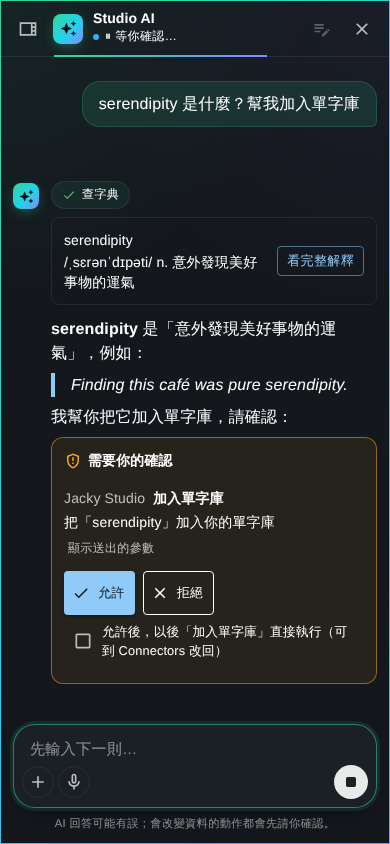
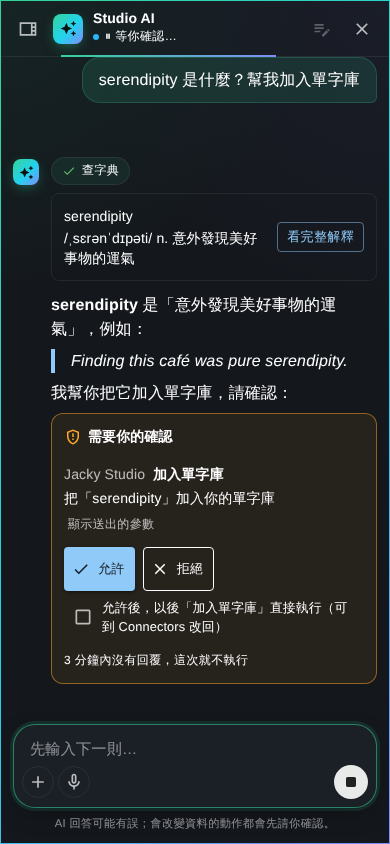
feat(aiChat): 確認卡顯示還剩多少時間回覆（D-106）
伺服器等確認最多 3 分鐘，時間到就不執行，但卡片上從沒說過。
等待中的卡片多一行剩餘時間，最後一分鐘倒數秒數；常數由測試對齊
ClientToolRunner.ApprovalTimeout。重拍 studio-approval 截圖。

Claude-Session: https://claude.ai/code/session_016MR5UN6vsbc54EuztP6RYv

diff --git a/jackyaiapp.client/src/components/aiChat/components/ApprovalCard.tsx b/jackyaiapp.client/src/components/aiChat/components/ApprovalCard.tsx
@@ -11,12 +11,13 @@ import {
   Typography,
 } from '@mui/material';
 import { alpha, useTheme } from '@mui/material/styles';
-import { useState } from 'react';
+import { useEffect, useState } from 'react';
 
 import {
   ApprovalCall,
   ApprovalDecision,
   ApprovalState,
+  approvalTimeLeft,
   canAlwaysAllow,
   decisionsFor,
   formatArgument,
@@ -32,6 +33,18 @@ interface ApprovalCardProps {
   onSubmit: (decisions: ApprovalDecision[]) => void;
   /** The calls the reader allowed and asked to let run on their own from now on (`canAlwaysAllow`). */
   onAlwaysAllow?: (calls: ApprovalCall[]) => void;
+}
+
+/** The time now, again every second while `ticking`: the card counts down the time left to answer. */
+function useNow(ticking: boolean) {
+  const [now, setNow] = useState(() => Date.now());
+  useEffect(() => {
+    if (!ticking) return;
+    setNow(Date.now());
+    const id = window.setInterval(() => setNow(Date.now()), 1000);
+    return () => window.clearInterval(id);
+  }, [ticking]);
+  return now;
 }
 
 /** One tool of one connector: what a permission is set for. */
@@ -94,6 +107,8 @@ export default function ApprovalCard({
   const open = state === 'pending' || state === 'failed';
   const decided = new Map(decisions?.map((d) => [d.toolUseId, d.approve]));
   const allChosen = approval.calls.every((c) => c.toolUseId in chosen);
+  const now = useNow(open && approval.askedAt !== undefined);
+  const timeLeft = open ? approvalTimeLeft(approval.askedAt, now) : null;
 
   return (
     <Box
@@ -292,6 +307,16 @@ export default function ApprovalCard({
           {canAllowAll
             ? '也可以逐項選好允許或拒絕，再按「照上面的選擇送出」'
             : '每一項都選好允許或拒絕後才能送出'}
+        </Typography>
+      )}
+      {timeLeft && (
+        <Typography
+          variant="caption"
+          color={timeLeft.urgent ? 'warning.main' : 'text.secondary'}
+          sx={{ display: 'block', mt: 0.5 }}
+          data-testid="approval-time-left"
+        >
+          {timeLeft.text}
         </Typography>
       )}
       {state === 'sending' && (

diff --git a/jackyaiapp.client/src/components/aiChat/utils/approval.test.ts b/jackyaiapp.client/src/components/aiChat/utils/approval.test.ts
@@ -1,7 +1,11 @@
 import { describe, expect, it } from 'vitest';
 
+import clientToolRunnerCs from '../../../../../JackyAIApp.Server/Services/Chatbot/ClientToolRunner.cs?raw';
+
 import {
   alwaysAllowRequest,
+  APPROVAL_TIMEOUT_MS,
+  approvalTimeLeft,
   canAlwaysAllow,
   decisionsFor,
   formatArgument,
@@ -90,5 +94,42 @@ describe('hasOpenApproval', () => {
   it('is closed with no card or only answered ones', () => {
     expect(hasOpenApproval([])).toBe(false);
     expect(hasOpenApproval([{}, approval('resolved')])).toBe(false);
+  });
+});
+
+describe('approvalTimeLeft', () => {
+  const asked = 1_000_000;
+
+  it("counts to the server's own limit", () => {
+    const minutes = /ApprovalTimeout = TimeSpan\.FromMinutes\((\d+)\)/.exec(clientToolRunnerCs);
+    expect(minutes).not.toBeNull();
+    expect(Number(minutes![1]) * 60 * 1000).toBe(APPROVAL_TIMEOUT_MS);
+  });
+
+  it('says nothing without knowing when it was asked', () => {
+    expect(approvalTimeLeft(undefined, asked)).toBeNull();
+  });
+
+  it('counts whole minutes, then seconds in the last minute, then that the time is up', () => {
+    expect(approvalTimeLeft(asked, asked)).toEqual({
+      text: '3 分鐘內沒有回覆，這次就不執行',
+      urgent: false,
+    });
+    expect(approvalTimeLeft(asked, asked + 61_000)).toEqual({
+      text: '2 分鐘內沒有回覆，這次就不執行',
+      urgent: false,
+    });
+    expect(approvalTimeLeft(asked, asked + APPROVAL_TIMEOUT_MS - 60_000)).toEqual({
+      text: '60 秒內沒有回覆，這次就不執行',
+      urgent: true,
+    });
+    expect(approvalTimeLeft(asked, asked + APPROVAL_TIMEOUT_MS - 4_500)).toEqual({
+      text: '5 秒內沒有回覆，這次就不執行',
+      urgent: true,
+    });
+    expect(approvalTimeLeft(asked, asked + APPROVAL_TIMEOUT_MS + 2_000)).toEqual({
+      text: '時間到了，這次不會執行',
+      urgent: true,
+    });
   });
 });

diff --git a/jackyaiapp.client/src/components/aiChat/utils/approval.ts b/jackyaiapp.client/src/components/aiChat/utils/approval.ts
@@ -16,6 +16,9 @@ export interface PendingApproval {
   calls: ApprovalCall[];
   /** The conversation has read outside (untrusted) content: every write needs a yes. */
   tainted?: boolean;
+  /** When the question arrived (ms since the epoch, the client's clock): the turn waits at most
+   *  `APPROVAL_TIMEOUT_MS` from about then. */
+  askedAt?: number;
 }
 
 export interface ApprovalDecision {
@@ -73,3 +76,22 @@ export const alwaysAllowRequest = (call: ApprovalCall): ToolPermissionRequest =>
  */
 export const hasOpenApproval = (messages: readonly { approval?: MessageApproval }[]): boolean =>
   messages.some((m) => m.approval !== undefined && m.approval.state !== 'resolved');
+
+/** How long the server waits for an answer before counting every call as a no (`ClientToolRunner.ApprovalTimeout`). */
+export const APPROVAL_TIMEOUT_MS = 3 * 60 * 1000;
+
+/**
+ * What the card says about the time left to answer, or nothing when it does not know when it was asked. The server
+ * started counting a moment before the question arrived, so this is never later than its own limit. Under a minute
+ * it counts the seconds (`urgent`); at the end, the server's no is on its way.
+ */
+export const approvalTimeLeft = (
+  askedAt: number | undefined,
+  now: number,
+): { text: string; urgent: boolean } | null => {
+  if (askedAt === undefined) return null;
+  const left = Math.ceil((askedAt + APPROVAL_TIMEOUT_MS - now) / 1000);
+  if (left <= 0) return { text: '時間到了，這次不會執行', urgent: true };
+  if (left <= 60) return { text: `${left} 秒內沒有回覆，這次就不執行`, urgent: true };
+  return { text: `${Math.ceil(left / 60)} 分鐘內沒有回覆，這次就不執行`, urgent: false };
+};

diff --git a/jackyaiapp.client/src/components/aiChat/components/ApprovalCard.test.tsx b/jackyaiapp.client/src/components/aiChat/components/ApprovalCard.test.tsx
@@ -274,4 +274,33 @@ describe('ApprovalCard', () => {
       expect(checkbox()).toBeNull();
     });
   });
+
+  describe('time left to answer', () => {
+    afterEach(() => vi.useRealTimers());
+    const timeLeft = () =>
+      container.querySelector('[data-testid="approval-time-left"]')?.textContent ?? null;
+
+    it('counts down while the card waits, from when the question arrived', () => {
+      vi.useFakeTimers();
+      const askedAt = Date.now();
+      render({ pendingId: 'p', calls: [call('a')], askedAt });
+      expect(timeLeft()).toBe('3 分鐘內沒有回覆，這次就不執行');
+
+      act(() => vi.advanceTimersByTime(2 * 60 * 1000 + 30_000));
+      expect(timeLeft()).toBe('30 秒內沒有回覆，這次就不執行');
+    });
+
+    it('is gone once sent or answered, and not shown without a time', () => {
+      vi.useFakeTimers();
+      const askedAt = Date.now();
+      render({ pendingId: 'p', calls: [call('a')], askedAt }, vi.fn(), 'sending');
+      expect(timeLeft()).toBeNull();
+      render({ pendingId: 'p', calls: [call('a')], askedAt }, vi.fn(), 'resolved', [
+        { toolUseId: 'a', approve: true },
+      ]);
+      expect(timeLeft()).toBeNull();
+      render({ pendingId: 'p', calls: [call('a')] });
+      expect(timeLeft()).toBeNull();
+    });
+  });
 });

diff --git a/jackyaiapp.client/src/components/aiChat/hooks/useChatConversation.ts b/jackyaiapp.client/src/components/aiChat/hooks/useChatConversation.ts
@@ -243,7 +243,12 @@ export function useChatConversation(options?: ChatConversationOptions) {
         event.type === 'approval_required'
           ? updateBot({
               approval: {
-                request: { pendingId: event.pendingId, calls: event.calls, tainted: event.tainted },
+                request: {
+                  pendingId: event.pendingId,
+                  calls: event.calls,
+                  tainted: event.tainted,
+                  askedAt: Date.now(),
+                },
                 state: 'pending',
               },
             })

diff --git a/docs/ai-native/DECISIONS.md b/docs/ai-native/DECISIONS.md
@@ -107,3 +107,4 @@
 - **D-103（2026-10-25 22:15）Studio AI 主動提議記住，靠確認卡把關**：2026 的助理會自己發現「這值得記」。Studio 先回答，再在同一個回覆最後呼叫 `remember`（`AlwaysAsks`：任何設定下都是確認卡，本站 MCP server 不提供），使用者按允許才存；一個對話最多提議一次、拒絕就不再提；一次性的事、別人的事、密碼證件、健康狀況不提議。不做自動記憶（不經確認就存）：持久化 injection 的風險（D-101）沒變。只改 prompt 與 `remember` 的說明，`StudioChatProfileTests` 鎖住。
 - **D-104（2026-10-25 22:20）本輪審查（subagent，唯讀）**：無高風險。已修：/connectors 記憶標題在桌機也變小（`fontSize: { sm: undefined }` 不會還原 → `typography: { xs: 'subtitle1', sm: 'h6' }`，加省略號）；資料分析的筆記用法與「不要因為筆記呼叫工具」互相拉扯（改成「使用者要查但沒說範圍時，查詢條件可以照筆記」）；主動提議只根據使用者自己打的話；讀不到筆記時資料分析助理照常回答（記 log）；Studio 筆記區塊加逐字測試。接受：拒絕過的提議在別的對話可能再出現一次（design/08 §8）。
 - **D-105（2026-10-25 23:50）確認卡重新整理就消失：不做重新接上，改成離開前先問**：評估 NEXT 的選做。確認在 turn 自己的請求裡等待（D-026），而 turn 的取消跟 `HttpContext.RequestAborted` 連在一起（`AnthropicChatService` 的 `turnCts`）：重新整理後原請求結束，turn 跟著結束、什麼都不執行，伺服器端已沒有可以接回的 turn。要接回就得把 turn 從請求拆開（背景執行、事件暫存、新請求從第 N 個事件續讀的 resumable stream），而用量的結算（`UsageSettlementMiddleware` 依請求結束的狀態退款）、`ChatTurnRegistry` 的停止與 /finance 的行為都綁在「一輪＝一個請求」上——功能凍結前十天、本機無法 build 後端，風險大於價值。改做前端的保護：有確認卡在等（`pending`／`sending`／`failed`）時，重新整理或關閉分頁先跳出瀏覽器自己的「確定要離開？」（`useWarnBeforeLeaving`、`hasOpenApproval`），站內換頁不會卸載頁面所以不問（Studio 的抽屜跨頁都在，對話不受影響；/finance、/data-analysis 自己的助理在換頁時照舊停止回答，App 用的是 `BrowserRouter` 不是 data router，沒有 `useBlocker` 可用）；只在等確認時問，一般回答寫到一半不問（/finance 行為不變）。已知限制保留，SHOWCASE 改寫成現在的樣子。
+- **D-106（2026-10-26 00:05）確認卡顯示還剩多少時間**：伺服器等確認最多 3 分鐘（`ClientToolRunner.ApprovalTimeout`），時間到就當作全部拒絕（D-026），但卡片上從來沒說——使用者離開一下回來，按了允許才發現早就不執行了。卡片在等待（`pending`／`failed`）時多一行「3 分鐘內沒有回覆，這次就不執行」，最後一分鐘改成秒數倒數（警告色），時間到「時間到了，這次不會執行」直到伺服器的 `approval_resolved` 到。從收到 `approval_required` 的時間起算（`PendingApproval.askedAt`，用戶端時鐘；伺服器早一點開始計時，所以顯示的不會比伺服器晚），算法是純函式 `approvalTimeLeft`；`APPROVAL_TIMEOUT_MS` 由測試對齊 `ClientToolRunner.cs`（照 `quickActions.test.ts` 讀 `SitePages.cs` 的作法）。從歷史紀錄打開的對話沒有等待中的卡片，不受影響。

diff --git a/jackyaiapp.client/CLAUDE.md b/jackyaiapp.client/CLAUDE.md
@@ -65,7 +65,7 @@ jackyaiapp.client/src/
   and 「以後直接執行」 is offered once per tool; MessageArea keys it by `pendingId`, so a later question is a new card; a call the site describes in words,
   `summary`, shows that with its raw arguments behind 「顯示送出的參數」, an outside connector's always shows them; while it waits it comes after the
   answer's text, with no thinking dots, and once answered it stays above the text as a record; the header says
-  what the turn is doing, `hooks/chatStatus`, a tool by its display name and「等你確認」while it waits; while a card waits (`hasOpenApproval`), reloading or closing the page asks the browser's 「確定要離開？」 first (`useWarnBeforeLeaving`, D-105), since leaving ends the turn the card waits in; for a site tool's write, outside a
+  what the turn is doing, `hooks/chatStatus`, a tool by its display name and「等你確認」while it waits; while a card waits it says the time left to answer (`approvalTimeLeft`, from when it arrived, `askedAt`, to the server's 3 minutes, `APPROVAL_TIMEOUT_MS`, which a test holds to `ClientToolRunner.cs`; seconds in the last minute, D-106), and (`hasOpenApproval`) reloading or closing the page asks the browser's 「確定要離開？」 first (`useWarnBeforeLeaving`, D-105), since leaving ends the turn the card waits in; for a site tool's write, outside a
   conversation that read outside content, it offers to let the tool run on its own from now on, `canAlwaysAllow`, which
   sets the same permission as the connectors page). Under the last answer that finished
   in this session (`Message.answered`), `FollowUps` offers up to three questions to carry on with, which a press sends:
